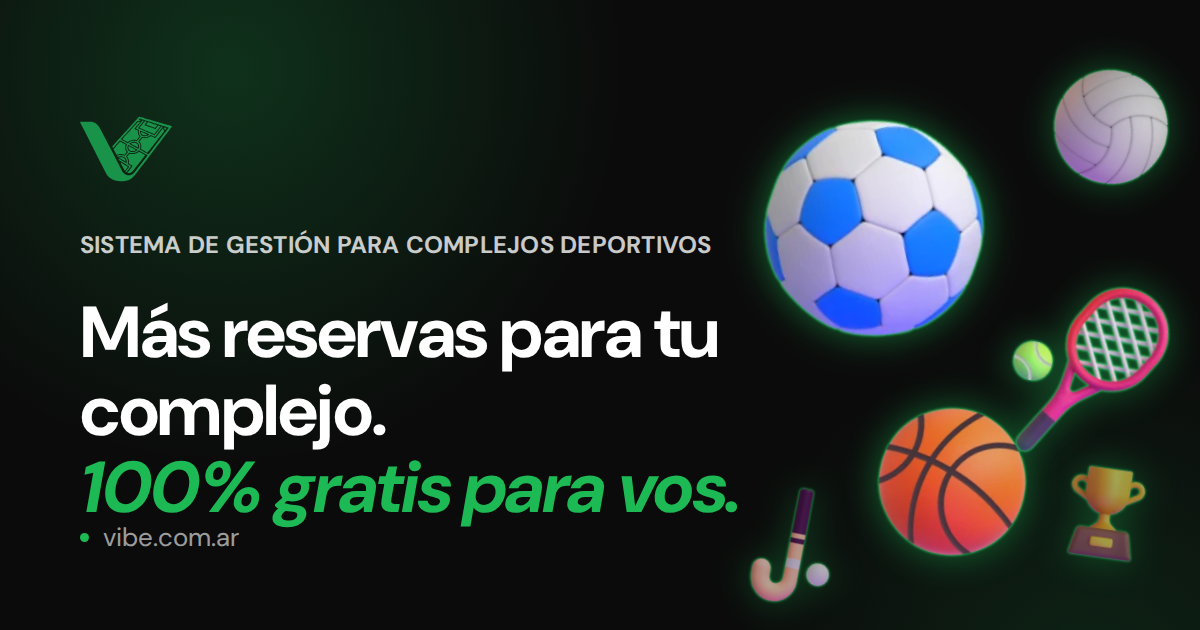
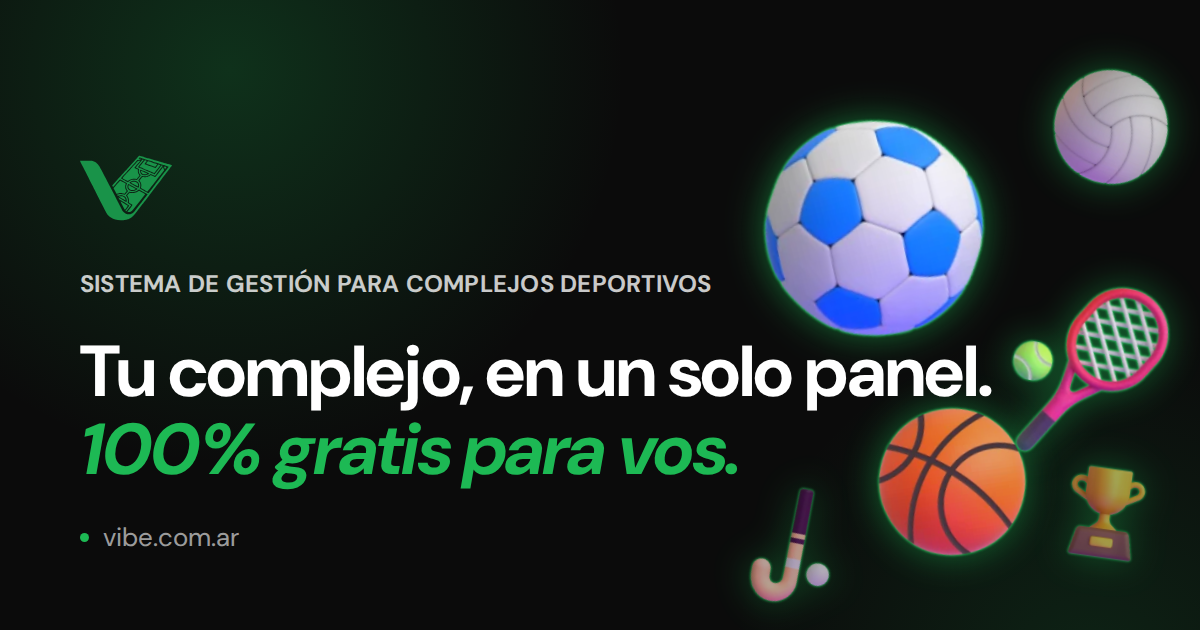
feat(landing): lead with management, booking as one module (#180)
* feat(landing): lead the home with management, booking as one module

* feat(landing): frame the guide call to action around management

* feat(landing): put the management headline on the share image

Changed region(s): [[0.0617, 0.181, 0.8325, 0.8444]]

diff --git a/landing/src/data/jsonld.ts b/landing/src/data/jsonld.ts
@@ -11,7 +11,7 @@ export const homeJsonLd: string[] = [
     "@context": "https://schema.org",
     "@type": "SoftwareApplication",
     "name": "Vibe",
-    "description": "Sistema de gestión gratis para complejos deportivos: reservas online con seña, cobros en el mostrador, caja por turno con arqueo, venta de productos con stock y reportes.",
+    "description": "Sistema de gestión gratis para complejos deportivos: cobros en el mostrador, caja por turno con arqueo, venta de productos con stock, clientes, reportes y reservas online con seña.",
     "url": "https://vibe.com.ar",
     "applicationCategory": "BusinessApplication",
     "operatingSystem": "Web",
@@ -23,9 +23,6 @@ export const homeJsonLd: string[] = [
       "description": "100% gratis para el complejo deportivo: sin costo fijo, sin suscripción y sin cargo sobre los cobros en el mostrador ni las ventas."
     },
     "featureList": [
-      "Reservas online 24/7 con página pública del complejo",
-      "Cobro de señas con MercadoPago y reembolso automático",
-      "Precios por cancha, día y franja horaria",
       "Cobros en el mostrador: efectivo, transferencia, débito, crédito y QR",
       "Caja por turno con arqueo de efectivo",
       "Ingresos y egresos por categoría",
@@ -34,7 +31,10 @@ export const homeJsonLd: string[] = [
       "Recordatorio automático 2 horas antes del turno",
       "Base de clientes con asistencia y bloqueo",
       "Dashboard con ocupación por horario",
-      "Reporte mensual con exportación a Excel"
+      "Reporte mensual con exportación a Excel",
+      "Reservas online 24/7 con página pública del complejo",
+      "Cobro de señas con MercadoPago y reembolso automático",
+      "Precios por cancha, día y franja horaria"
     ],
     "author": {
       "@type": "Organization",

diff --git a/landing/src/styles/global.css b/landing/src/styles/global.css
@@ -491,7 +491,7 @@ body {
    desktop anchors. */
 @media (min-width: 769px) and (max-width: 1200px) {
   .sport-emoji { width: calc(var(--size) * 1.85); height: calc(var(--size) * 1.85); }
-  /* The one-line H1 ("Más reservas para tu complejo.") reaches the basketball
+  /* The one-line H1 ("Tu complejo, en un solo panel.") reaches the basketball
      anchors in this range, so the basketball rides above the headline and
      the soccer ball drops beside the paragraph. */
   .orbit-item-1 { top: 40%; }
